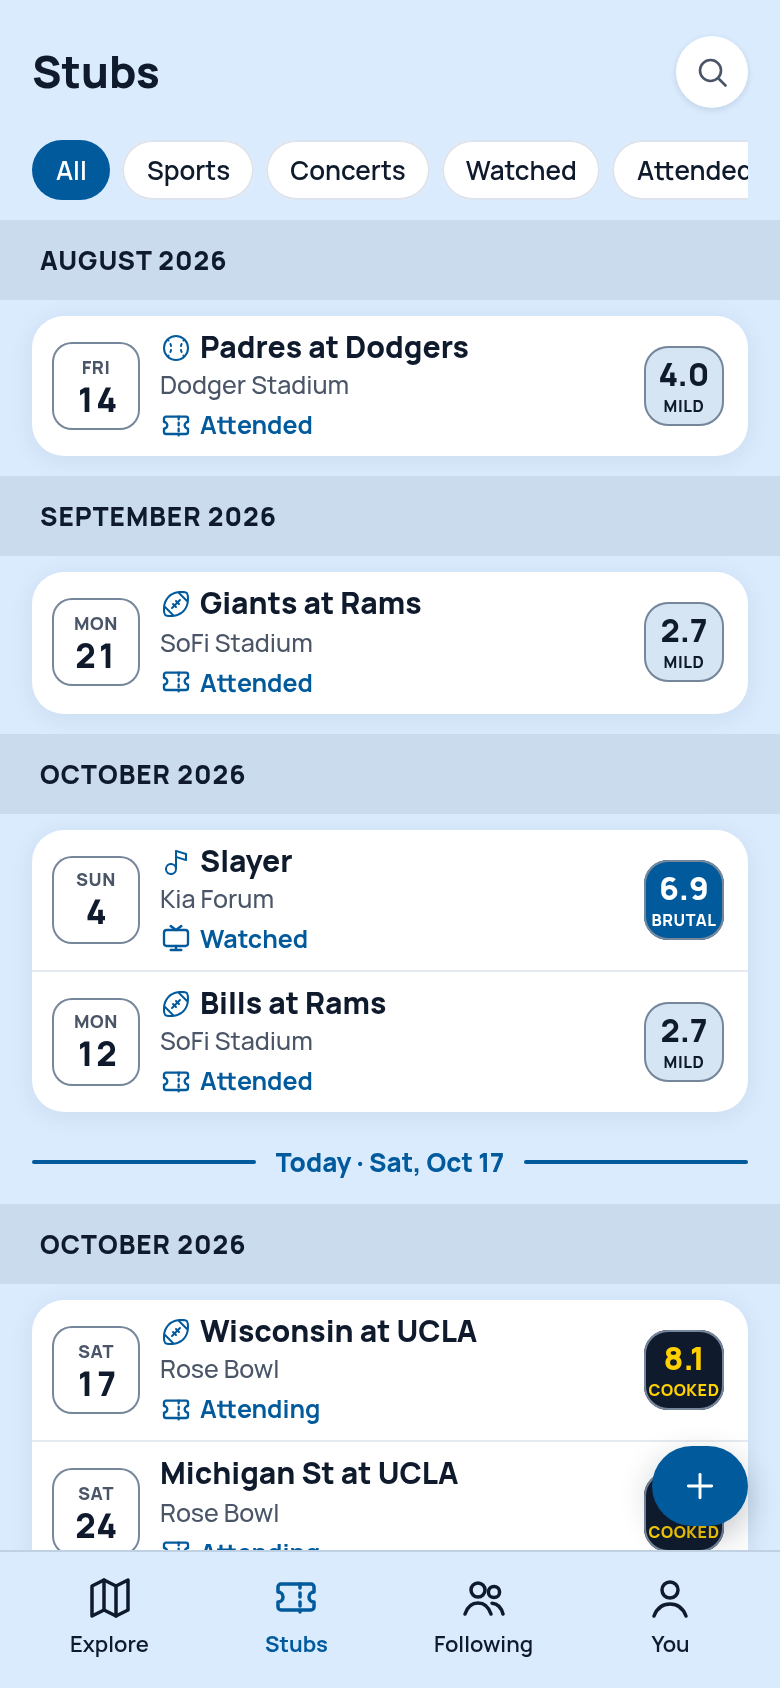
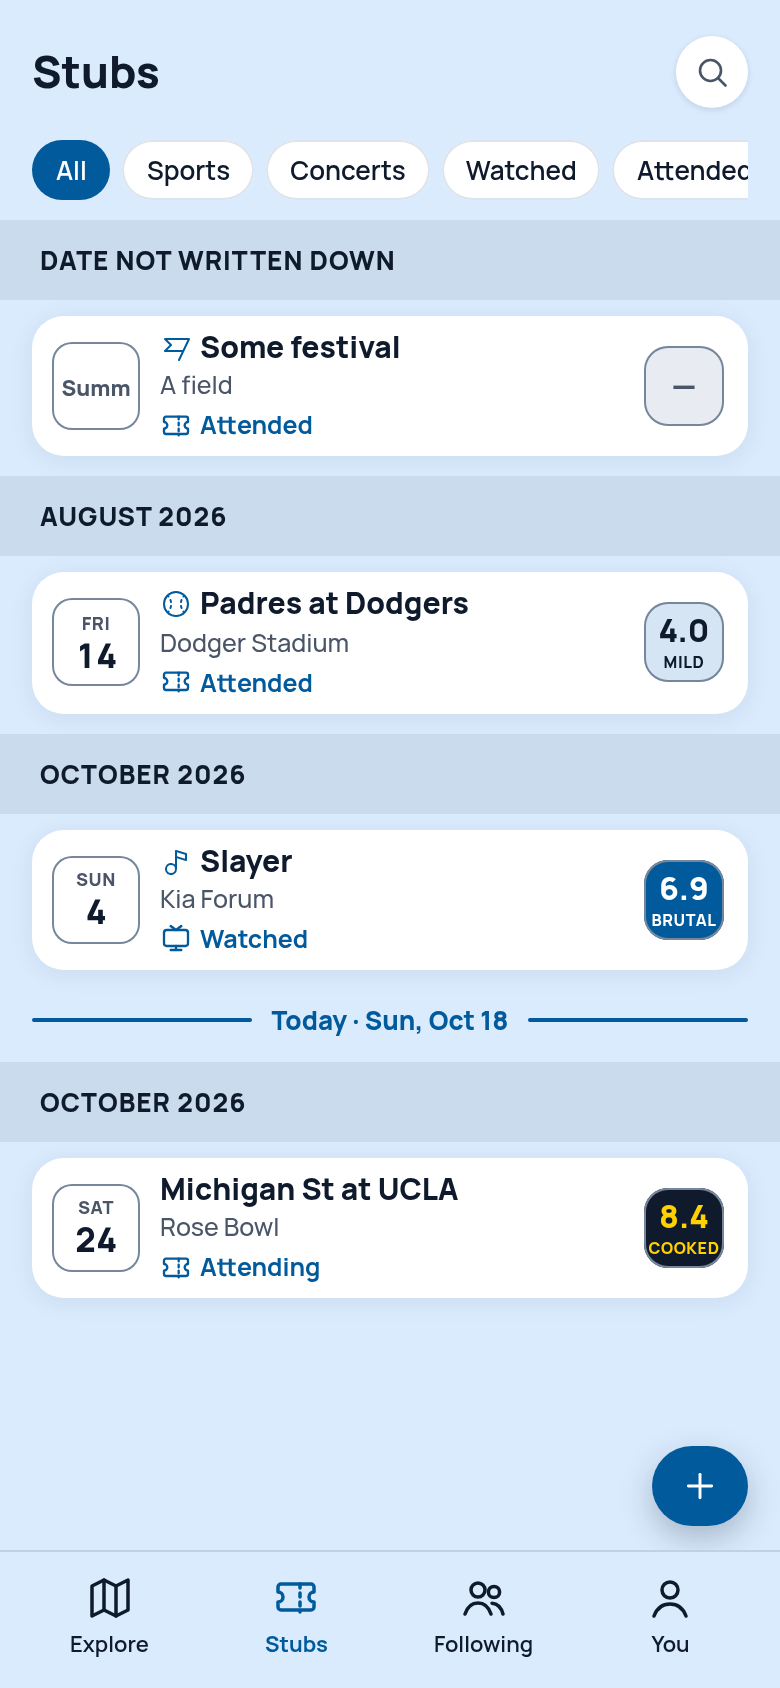
docs: the Oct 19 refinements logged; screens after; handoff synced

diff --git a/MEMORY_HANDOFF.md b/MEMORY_HANDOFF.md
@@ -2,14 +2,14 @@
 
 Overwritten each session. Deferred work and history live in `BACKLOG.md`: open questions are at its top (the K-list), build follow-ups under **Next** ("Build 6 follow-ups" is newest, then "Past dates", then "Build 5 follow-ups"). Product rules live in `AGENTS.md` (CLAUDE.md points at it), `docs/product/direction.md` and `docs/product/product-decisions.md` (newest sections at the bottom; build 6's decisions are the last section). Build 6's notes are `docs/build-6/build-notes-6.md`; its frozen scope is `docs/build-6/scope-frozen.md`.
 
-_Last synced: Oct 18, 2026, Claude Code (Fable 5.1), at `main`'s head. **Six commits after `7b3831b5` are local and NOT pushed** (Kylie, Oct 17: "do not automatically fix and push"; push when she says). The tree is clean. Kylie's standing instruction: one commit per step, straight to `main` (Kylie, Oct 9; reaffirmed for build 6)._
+_Last synced: Oct 19, 2026, Claude Code (Fable 5.1), at `main`'s head. **Eight commits after `7b3831b5` are local and NOT pushed** (Kylie, Oct 17: "do not automatically fix and push"; push when she says). The tree is clean. Kylie's standing instruction: one commit per step, straight to `main` (Kylie, Oct 9; reaffirmed for build 6)._
 
 ## Current state
 **Build 6 is built, checked and pushed** (items 1–16 of `docs/build-6/build-notes-6.md`, one item per commit, from `75816216` to the head). `npm run build`, `scripts/titles-check.mjs` and `scripts/event-types-check.mjs` pass; every changed list was measured at 390 px with Playwright; every changed screen was smoke-tested for runtime errors. In short:
 - Friction is a violet ghost ring on list rows (after the crowd figure) and one-tint pill with a ring on the event page's Crowd and Up against cards; Stubs rows and Following cards carry no friction mark. The occasion tag shows only on the day's top event(s), right-justified on the venue line. Local Competition bars are gold with a quiet-day line. No "~" except the event page's full number and the map key. The chip card's by-line shows only beside its pill.
 - Stubs and Following's Friends segment are timelines (`src/components/Timeline.tsx`): the tab header stays at the top, the today line opens first (board M2-01 panel C: a thin blue rule with the date centred on it, month bands on both sides), the past is above by scrolling up (Kylie, Oct 17, correcting the first build). Following keeps Faves | Friends; only the edit-favorites picker is in Settings.
 - **The mockup pack is audited (Oct 17, later):** `docs/build-6/mockups/` (30 boards plus MANIFEST) and the Oct 17 notes (Q15, Q16) are on disk; `docs/build-6/audit-vs-mockups.md` records every item against its boards, the fixes (`9ed4b4ff` item 1: ring geometry per M5-04, Unopposed a full disc, per-level spoken sentences, the key's helper tip per M5-08; `caafc5ea` items 6 and 7: the today line, bands both sides, empty-past above, no Earlier, the button's shrink) and the screens after (`docs/build-6/screens-after/`). Items with no board: chip card, Friends timeline, Settings panel, the decided badge, the event header without the pill, the share card. **Her answers, built the same day** (`b7e21048`, `cb4969bd`, `e58add49`): Faves takes month bands with the day on each row; the empty future is M2-02's card; a list with no past opens at its top; the map key fits under the header; the timelines no longer overflow the page's width or squash the chips. Open for Mosaic: the helper tip broken into sections.
-- **Her evening tweaks (local, unpushed):** Faves is the same timeline as Stubs and Friends, 60 days each way, results on past team rows; the crowd-size line toggles Show / Hide in place on the map sheet, the Explore List, the date page and search; the map sheet scrolls to every event; day and event links always carry the city; the badge's sport icon is a white disc astride the tile's top-left corner. **The Faves row is her option P5 (Oct 18):** date tile, a team line (icon and code, blue, a link to the favorite's page), the title with results written in, venue and time; the badge's corner disc centres its icon. Her sign-off is still wanted on the code being a link and on its 12.5 px size.
+- **Her evening tweaks (local, unpushed):** Faves is the same timeline as Stubs and Friends, 60 days each way, results on past team rows; the crowd-size line toggles Show / Hide in place on the map sheet, the Explore List, the date page and search; the map sheet scrolls to every event; day and event links always carry the city; the badge's sport icon is a white disc astride the tile's top-left corner. **The Faves row is her option P5 (Oct 18):** date tile, a team line (icon and code, blue, a link to the favorite's page), the title with results written in, venue and time; the badge's corner disc centres its icon. Her sign-off is still wanted on the code being a link and on its 12.5 px size. **Oct 19:** college titles on Faves rows say the school alone; the read tile's separator is gone; Stubs rows' read tiles open the date's page (the row still opens the event).
 - Settings is a side panel behind the You avatar (`SettingsPanel` in `src/screens/SettingsScreen.tsx`, `?panel=<section>`); the old sub-page and People addresses redirect into it.
 - Team badges are set-aware (`teamBadge(team, shown)`, `badgesCollide`, `FavoriteBadge`): sport icon top-left, college sport letters on a clash, pros plain. 53 team codes changed (Kylie's six plus 47 Medium rows). The duplicate check keys games by team id.
 - Doubleheaders read "Doubleheader Game 1" / "Doubleheader, Game 1" (chip DH1); a `rank` field shows in the event page title only when a source fills it (none does). Run labels: nothing. "The night" story heading is "The evening". Ticket links are off (code and ids kept). B5-02, B5-04, B5-05, B5-07 fixed. Stale docs corrected; `src/lib/chips.ts` and `frictionClass` removed.

diff --git a/docs/product/product-decisions.md b/docs/product/product-decisions.md
@@ -270,3 +270,4 @@ Each entry: the decision, why, and what was rejected. Provenance per line: "Kyli
 - **Her answers to the audit's questions** (Kylie, Oct 17, later). The Faves schedule on Following takes month bands too, each row saying its day first ("Today · Sat, Oct 17 · Rose Bowl · 4:30 pm"). The empty future under the today line is board M2-02's card ("Nothing upcoming yet", "Browse today in Explore ›"), not a one-line note. A list with nothing behind the line opens at its top, so the empty-past card is never out of view. The map key must not hide under the floating header (it now fits between the header and its button and scrolls inside); the helper tip's wording stays for now, and she wants its information broken into sections later (Mosaic). The Stubs and Friends lists must sit within the page's width with the chips above them intact (fixed).
 - **Kylie's Oct 17 tweaks after the correction** (built the same evening; held on `main` unpushed at her word). **Faves goes backwards too:** the Faves sub-tab is the same line of time as Stubs and Friends, reaching 60 days each way (reversing the Oct 16 pick that past Faves games stay out); a team's past rows read its results the team page's way ("W 17–15 at Oregon"), other favorites show their past dates; "Nothing coming: X" still names the favorites with nothing ahead. The Faves row itself is not settled: a date tile should carry the day (the written date leaves the row) and the row needs a way to show which favorite it belongs to; two tries (three tiles; a team line) were not right, so other models are mocking it from `docs/research/topics/faves-row/faves-row-mockup-prompt.md`. **The crowd-size line** ("N events outside your crowd size · Show") stays in place after Show and reads Hide, so the view switches on and off without Settings, on the map sheet, the Explore List (per day), the date page and search; the sheet's count follows what is listed. **The map sheet scrolls** to every event (its day list was shrinking to the sheet's height and clipping the rest). **Day and event links always carry the city** they were opened from (a Los Angeles day had opened as the Bay Area home). **The badge's sport icon** is a small white disc astride the tile's top-left corner, the icon in the tile's blue, as the badge board draws it, not a glyph painted over the tile.
 - **The Faves row is option P5, "team line above the title" (Kylie, Oct 18, 2026, from the mockups other models drew to `docs/research/topics/faves-row/`).** Past and future rows are one component: a 44 × 44 date tile at the left; a text block of three lines, the team line (the sport icon and the code the badge strip uses, in action blue, 12.5 px bold; "UCLA MBB" only where programs collide, no W), the title (bold ink, one line, a past game writing its result in: "W 17–15 at Oregon"), and the venue and time in grey (a past row has no time); the read tile at the right, about 60 px, opening the date page, or a grey Away tag where the app does not cover the building. No badge on the row, no friction mark, no occasion tag; the person's own Attending stays on Stubs. Measured at 390 px: the title keeps 220 px and no sample title truncates; rows are 76 px, 96 px when a label line ("NLCS Game 2") sits under the title, which the labels rule puts on its own line. **Leans built, not confirmed by Kylie:** the team code is a link to the favorite's page (the same place the strip's badge opens), which is why it is blue; the 12.5 px code sits under the 11 pt minimum (the Friends row's last line already does) and needs her sign-off. **Why:** the row always says which Fave it belongs to without a third tile, at the cost of about 18 px per row. **Rejected:** three tiles (date, badge, read: busy, titles truncate at 164 px); a team line under the venue (try B); the written date on the row (the date tile carries it).
+- **Three refinements (Kylie, Oct 19, 2026).** A college title on a Faves row names the school alone ("Lehigh at UCLA"), since the team line above it already says "UCLA WBB"; Explore and date rows keep their squad tags. The read tile loses the hairline that separated it from the row's words; its tap area is unchanged (the tile and its "›" read as the target). **Stubs rows take the same two taps:** the row opens the event (or the hand-added entry), the read tile opens that date's page; a stub with a rough date has no day page, so its tile stays plain.
